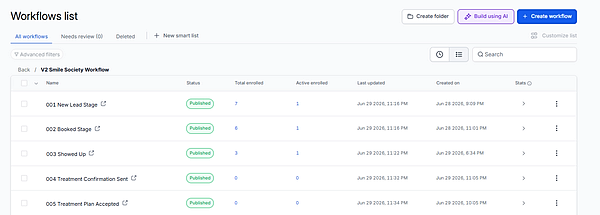
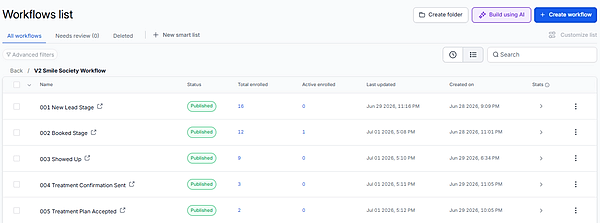
chore: refresh workflows-list screenshot with current enrollment numbers
New capture from the live GHL account (16/12/9 enrolled vs the old
7/6/3), cropped from a 1920px full-screen shot with the Activate
Windows watermark excluded. Same five-row preview treatment and
sharp 600w/1200w renditions; full version updated for the lightbox
and case-study page.

diff --git a/index.html b/index.html
@@ -1492,7 +1492,7 @@
         </div>
         <div class="case-preview">
           <div class="case-shot">
-            <img src="case-assets/ss-workflows-list-600.png" srcset="case-assets/ss-workflows-list-600.png 600w, case-assets/ss-workflows-list-1200.png 1200w" sizes="(max-width:760px) 100vw, 584px" data-full="case-assets/ss-workflows-list.png" alt="GoHighLevel workflow overview for the Smile Society build — first five of nine published workflows" width="1302" height="466" loading="lazy">
+            <img src="case-assets/ss-workflows-list-600.png" srcset="case-assets/ss-workflows-list-600.png 600w, case-assets/ss-workflows-list-1200.png 1200w" sizes="(max-width:760px) 100vw, 584px" data-full="case-assets/ss-workflows-list.png" alt="GoHighLevel workflow overview for the Smile Society build — first five of nine published workflows" width="1240" height="461" loading="lazy">
             <span class="zoom-hint" aria-hidden="true"><svg viewBox="0 0 24 24" fill="none" stroke="currentColor" stroke-width="2.4"><path d="M15 3h6v6M9 21H3v-6M21 3l-7 7M3 21l7-7"/></svg>Click for full view</span>
           </div>
           <div class="case-preview-copy">

diff --git a/smile-society.html b/smile-society.html
@@ -225,7 +225,7 @@
     <span class="tag">The workflows</span>
     <h2>Nine published workflows. This is the engine room.</h2>
     <figure>
-      <img loading="lazy" src="case-assets/ss-workflows-list.png" width="1302" height="676" alt="GoHighLevel workflows list showing nine Smile Society workflows, every one with a green Published status badge">
+      <img loading="lazy" src="case-assets/ss-workflows-list.png" width="1240" height="650" alt="GoHighLevel workflows list showing nine Smile Society workflows, every one with a green Published status badge">
       <figcaption>All nine workflows, all Published — not drafts, not mockups.</figcaption>
     </figure>
 